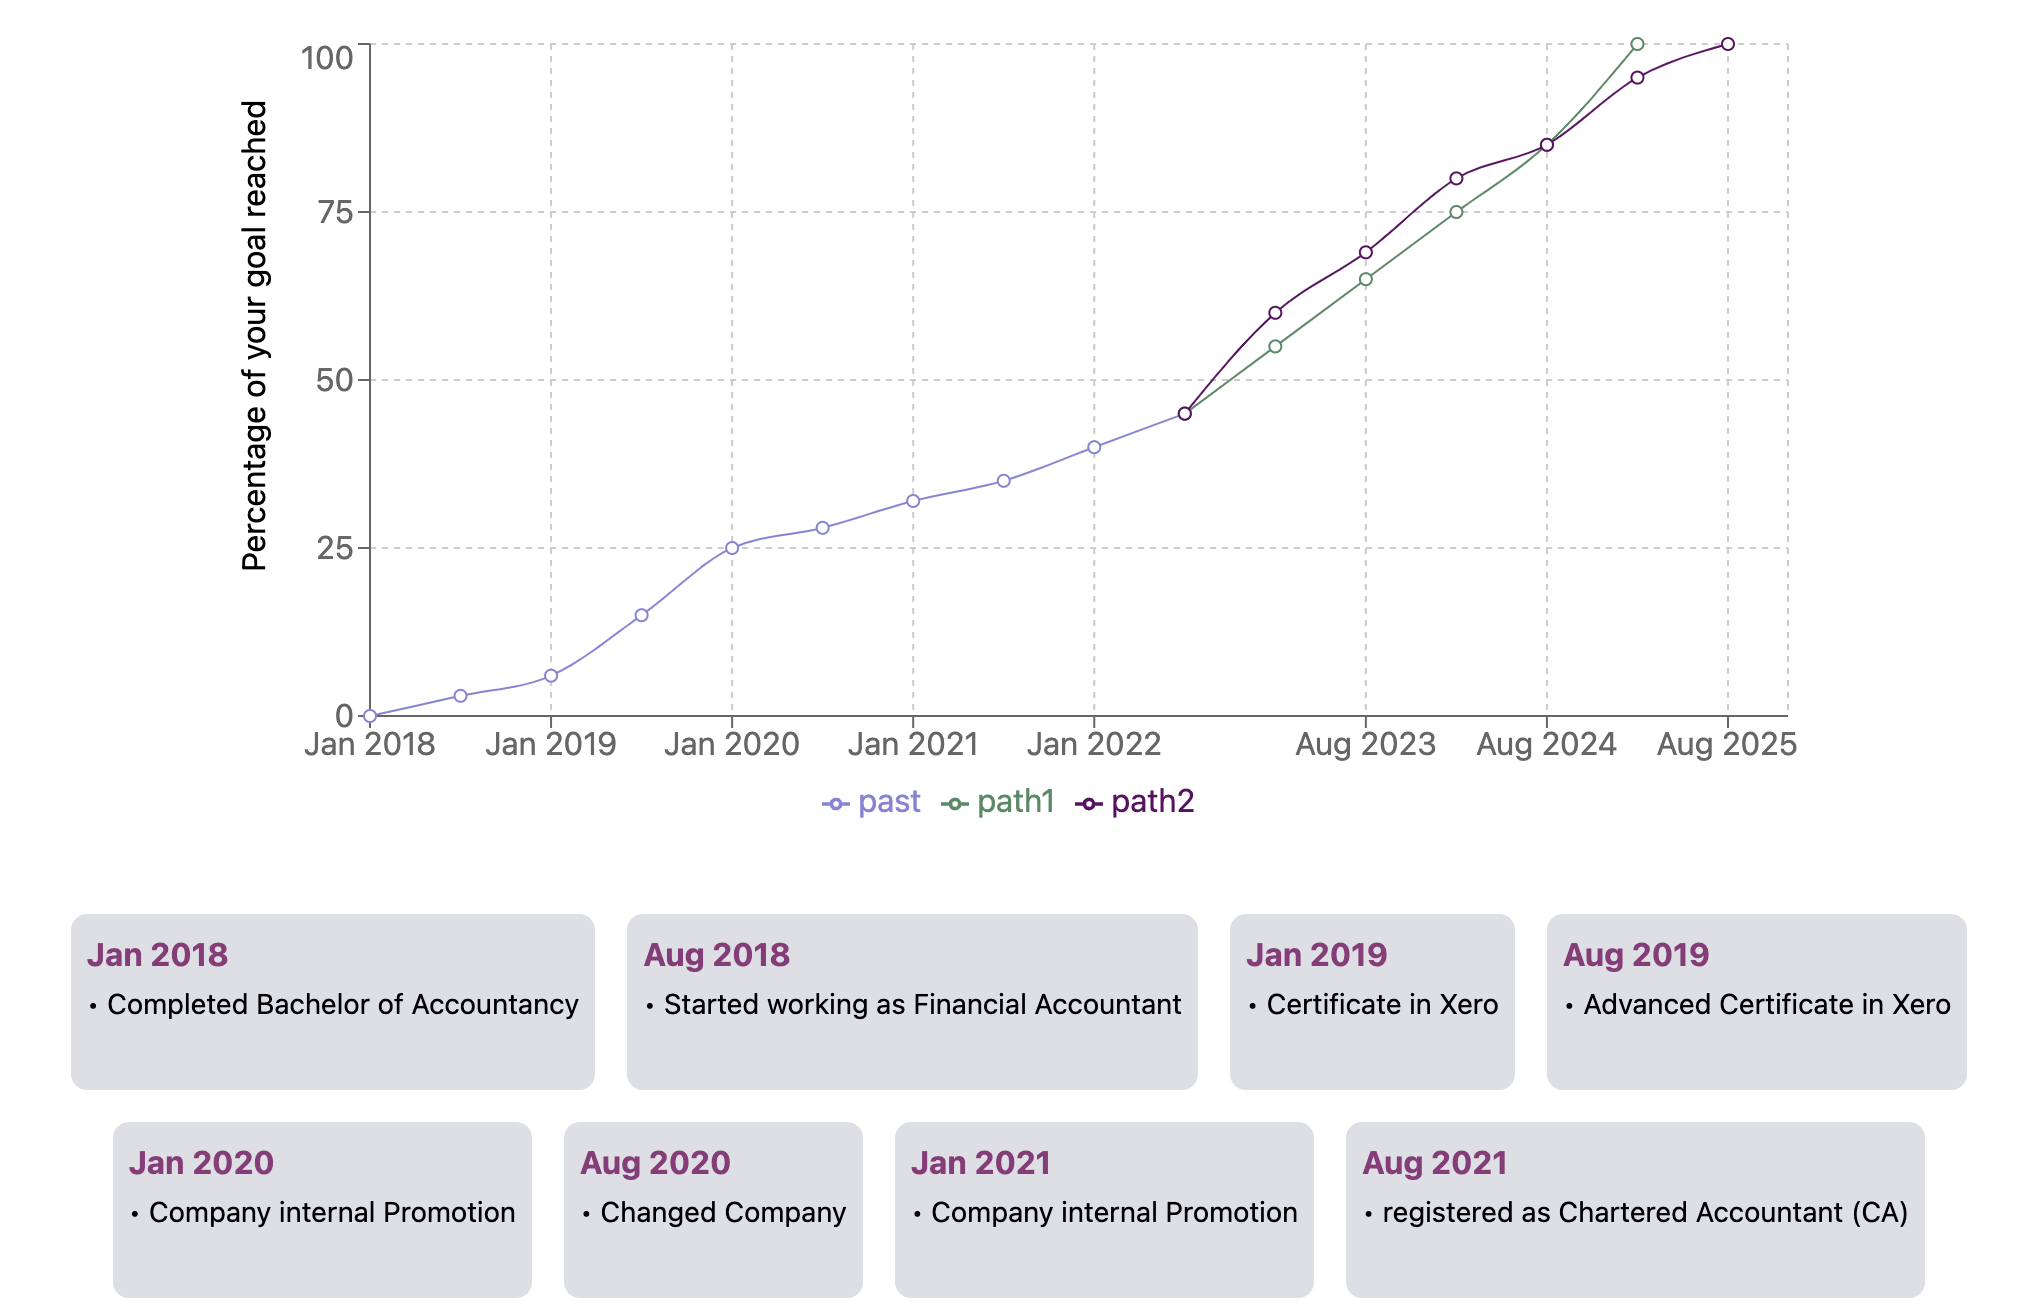
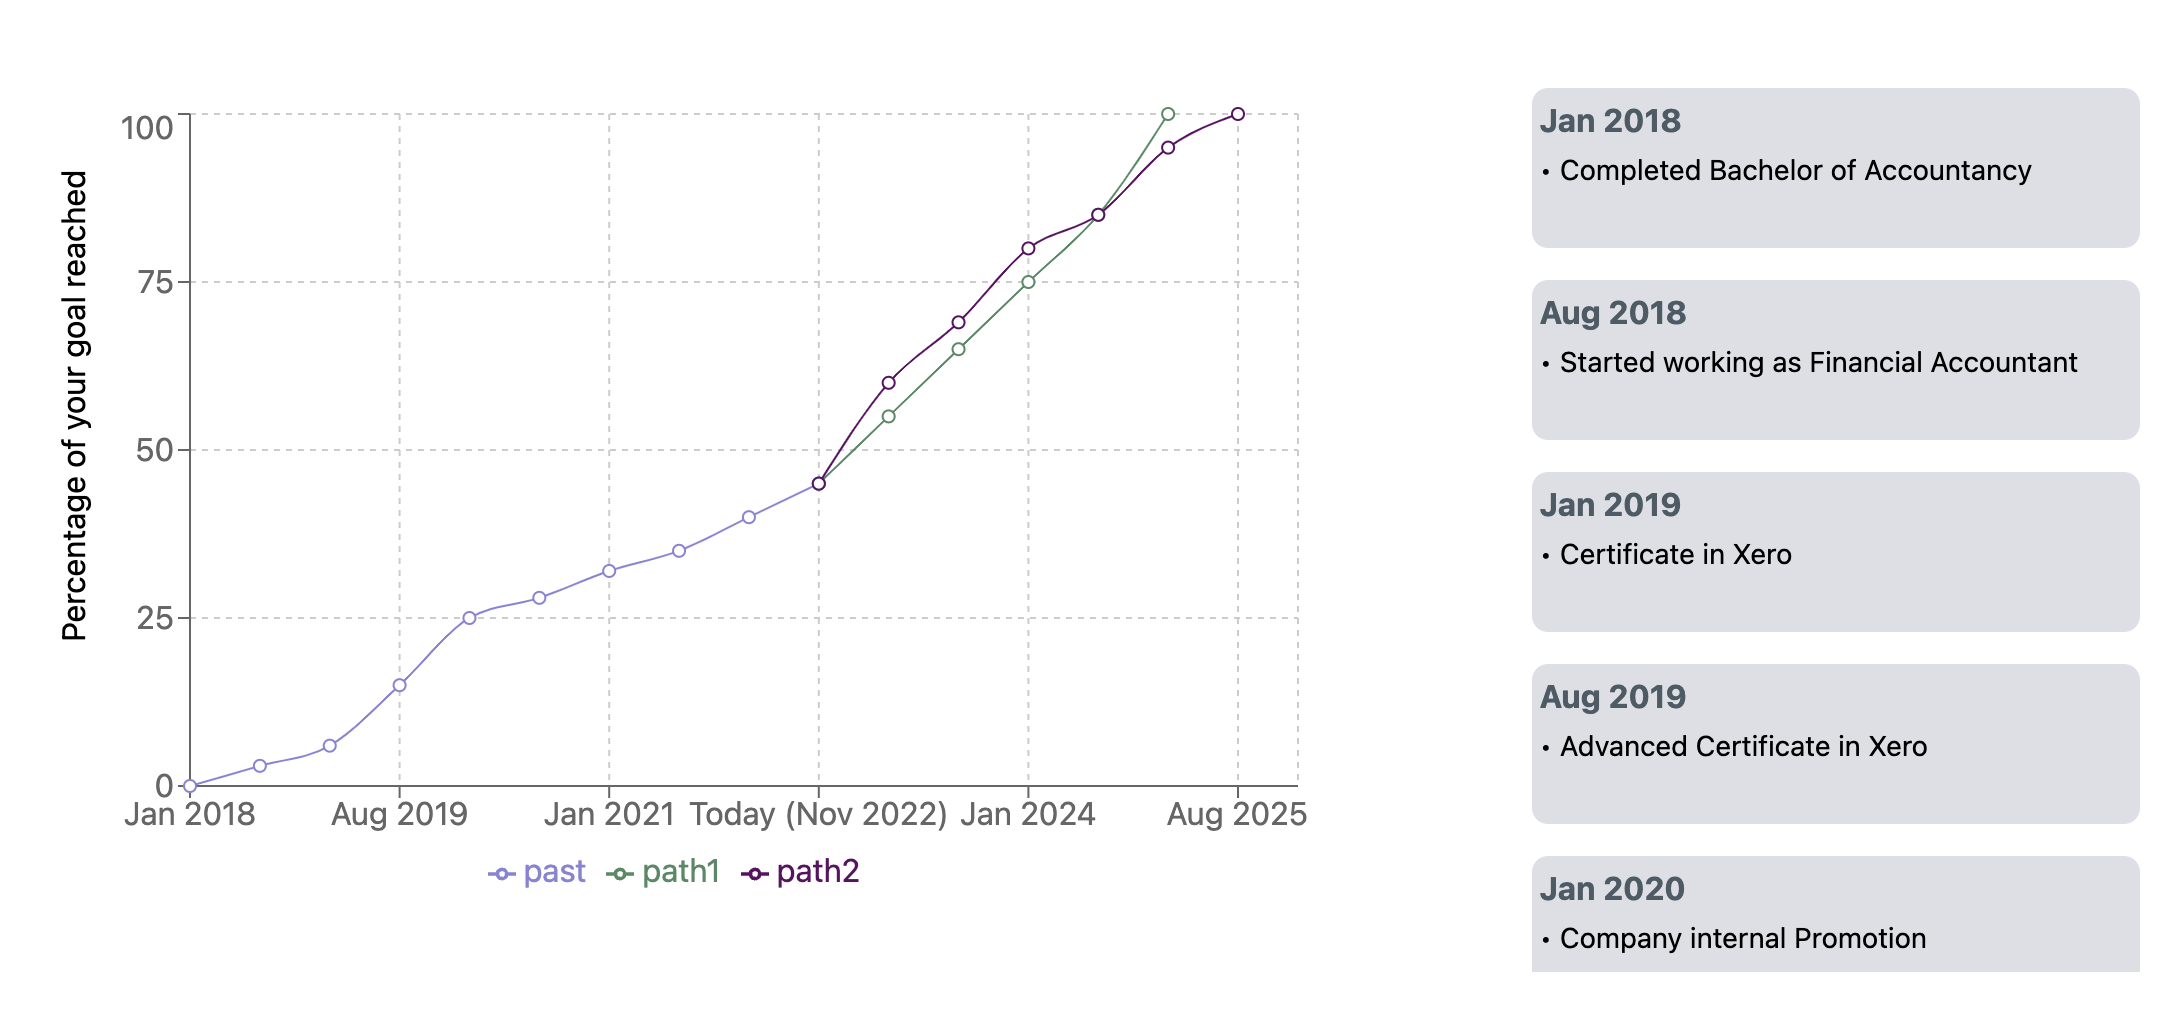
small changes to S7 and modals

diff --git a/src/components/prototypes/s7/S7.tsx b/src/components/prototypes/s7/S7.tsx
@@ -1,35 +1,52 @@
 import LineChart1 from "./LineChart1";
 import data from "./data2";
+import Box from '@mui/material/Box';
 
 
 const S7 = () => {
   return (
     <>
       
-<main className='mx-auto mt-4 max-w-full'>
+<main className='mx-auto max-w-full'>
   
-<div className="flex justify-center my-4">
-<h2 className="text-2xl font-semibold text-center">This Prototype shows your past career progression and 2 pathways that can help you reach 100% of your career goal by 2025 </h2>
+<div className="bg-[#4b5b66] p-6 m-6 rounded-lg text-[#dbe6e8]">
+
+    <div className="flex justify-center my-4 ">
+      <h2 className="text-2xl font-semibold text-center ">This Prototype shows your past career progression and 2 pathways that can help you reach 100% of your career goal by 2025 </h2>
+    </div>
+
+    <div className=" flex justify-center text-center flex-col">
+      <p>The graphs below shows your career timeline in relation to reaching your career goal. </p>
+      <p>The idea is to give you a better understanding of the amount of time required in reaching your goal and show you how much of your goal you have already achieved today. </p>
+  </div>
+
 </div>
 
-<div className=" flex justify-center text-center flex-col">
-<p>The graphs below shows your career timeline in relation to reaching your career goal. </p>
-<p>The idea is to give you a better understanding of the amount of time required in reaching your goal and show you how much of your goal you have already achieved today. </p>
+
+<div className="flex flex-row justify-between p-6">
+
+<div className="flex justify-center my-4 w-3/4 max-h-full " >
+<LineChart1 />
 </div>
 
 
-<div className="flex justify-center my-8 max-h-full" >
-<LineChart1/>
-</div>
-<div className="flex flex-row flex-wrap justify-center mb-5">
+<Box className="mb-5 mr-5 " 
+sx={{
+  mb: 2,
+  display: "flex",
+  flexDirection: "column",
+  height: 450,
+  overflow: "hidden",
+  overflowY: "scroll",
+}}>
 {data.map((result, index) =>(
 
-<div key={index} className="bg-[#dddfe6] p-2 m-2 rounded-lg">
+  <div key={index} className="bg-[#dddfe6] p-1 m-2 rounded-lg">
        
         <div key={index}>
 
           <div key={index}>
-            <p key={index}><span className="font-bold text-[#90377b]">{result.name}</span></p>
+            <p key={index}><span className="font-bold text-[#4b5b66]">{result.name}</span></p>
           </div>
 
           <div key={index}>
@@ -42,8 +59,10 @@ const S7 = () => {
 
         </div>
          
-</div>
+  </div>
 ))}
+</Box>
+
 </div>
 
 </main>

diff --git a/src/pages/dashboard.tsx b/src/pages/dashboard.tsx
@@ -1,20 +1,20 @@
 import React, { useEffect, useRef, useState } from "react";
-import {
-  useSession,
-  signOut,
-  getSession,
-  GetSessionParams,
-} from "next-auth/react";
+// import {
+//   useSession,
+//   signOut,
+//   getSession,
+//   GetSessionParams,
+// } from "next-auth/react";
 import Link from "next/link";
-import { unstable_getServerSession } from "next-auth";
-import { authOptions } from "./api/auth/[...nextauth]";
-import { GetServerSideProps } from "next";
+// import { unstable_getServerSession } from "next-auth";
+// import { authOptions } from "./api/auth/[...nextauth]";
+// import { GetServerSideProps } from "next";
 import { useRouter } from "next/router";
-import { string } from "zod";
+// import { string } from "zod";
 import Image from "next/future/image";
 import PrototypeS1image from "../components/innerCircleGraph/img/prototypeS1.png";
 import PrototypeS2image from "../components/prototypes/s2/img/graphS2.png";
-import PrototypeD1image from "../components/prototypes/s2/img/PrototypeD1.jpg";
+// import PrototypeD1image from "../components/prototypes/s2/img/PrototypeD1.jpg";
 import PrototypeS3image from "../components/prototypes/s2/img/PrototypeS3.png";
 import PrototypeD2image from "../components/prototypes/s2/img/PrototypeD2.png";
 import PrototypeS4image from "../components/prototypes/s2/img/PrototypeS4.png";

diff --git a/src/components/questionnaire/ThankYouModal.tsx b/src/components/questionnaire/ThankYouModal.tsx
@@ -4,8 +4,7 @@ import Button from '@mui/material/Button';
 import Typography from '@mui/material/Typography';
 import Modal from '@mui/material/Modal';
 import { useRouter } from 'next/router';
-// import CloseIcon from '@mui/icons-material/Close';
-// import Stack from '@mui/material/Stack';
+import Link from "next/link";
 
 
 const style = {
@@ -54,9 +53,12 @@ export default function ThankYouModal(props: Props) {
           <Typography id="modal-modal-description" sx={{ mt: 2 }}>
           If this is the last prototype please fill out our final feedback form on the dashboard.
           </Typography>
-          <Typography id="modal-modal-description" sx={{ mt: 2 }}>
-          Click anywhere on this page to go back to the dashboard.
-          </Typography>
+          <br/>
+          <Link href="/dashboard">
+           <Button variant="contained" className="bg-[#81bd75]">
+            Back to dashboard
+           </Button>
+          </Link>
         </Box>
         
       </Modal>

diff --git a/src/components/questionnaire/ThankYouModal2.tsx b/src/components/questionnaire/ThankYouModal2.tsx
@@ -4,7 +4,7 @@ import Button from '@mui/material/Button';
 import Typography from '@mui/material/Typography';
 import Modal from '@mui/material/Modal';
 import { useRouter } from 'next/router';
-import CloseIcon from '@mui/icons-material/Close';
+import Link from "next/link";
 
 const style = {
   position: 'absolute',
@@ -49,9 +49,12 @@ export default function ThankYouModal2(props: Props) {
           <Typography id="modal-modal-description" sx={{ mt: 2 }}>
          Have a great day!
           </Typography>
-          <Typography id="modal-modal-description" sx={{ mt: 2 }}>
-          Click anywhere on this page to go back to the dashboard.
-          </Typography>
+          <br/>
+          <Link href="/dashboard">
+           <Button variant="contained" className="bg-[#81bd75]">
+            Back to dashboard
+           </Button>
+          </Link>
         </Box>
       </Modal>
      

diff --git a/src/pages/index.tsx b/src/pages/index.tsx
@@ -35,7 +35,7 @@ const Home: NextPage = () => {
         <div className="flex flex-col items-center">
           <div className="z-10 flex flex-col items-center justify-center bg-white opacity-80 p-5">
             <h1 className="text-2xl font-semibold mb-2">
-              Welcome to Dacreed New Horizons
+              Welcome to Dacreed Huapae (Horizons)
             </h1>
             <p>your intelligent career journey mapping tool</p>
             <p>Create a username to begin</p>
